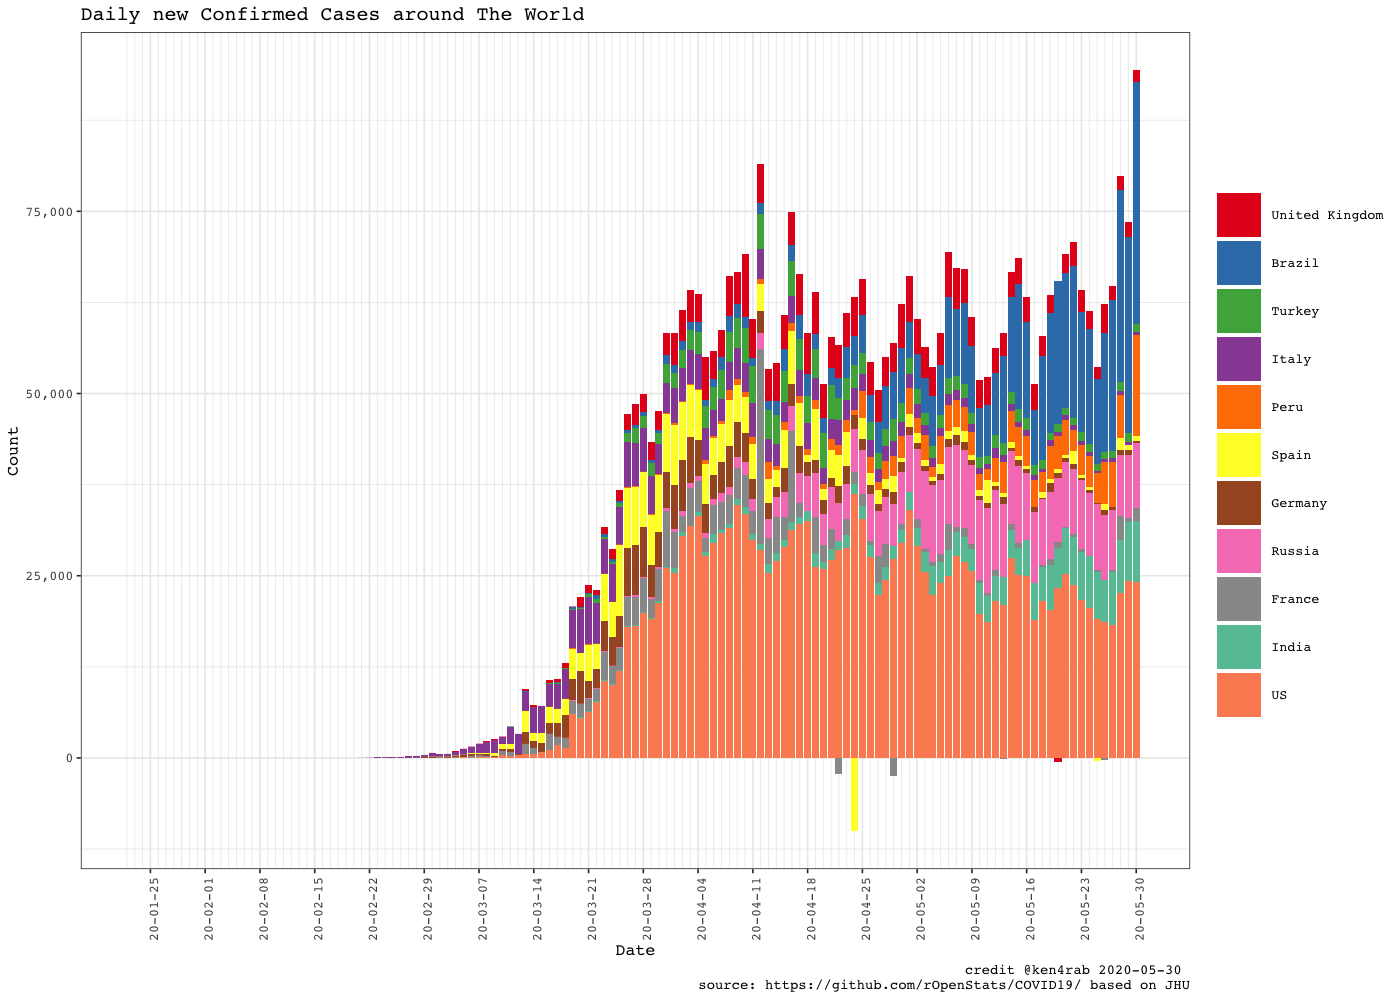
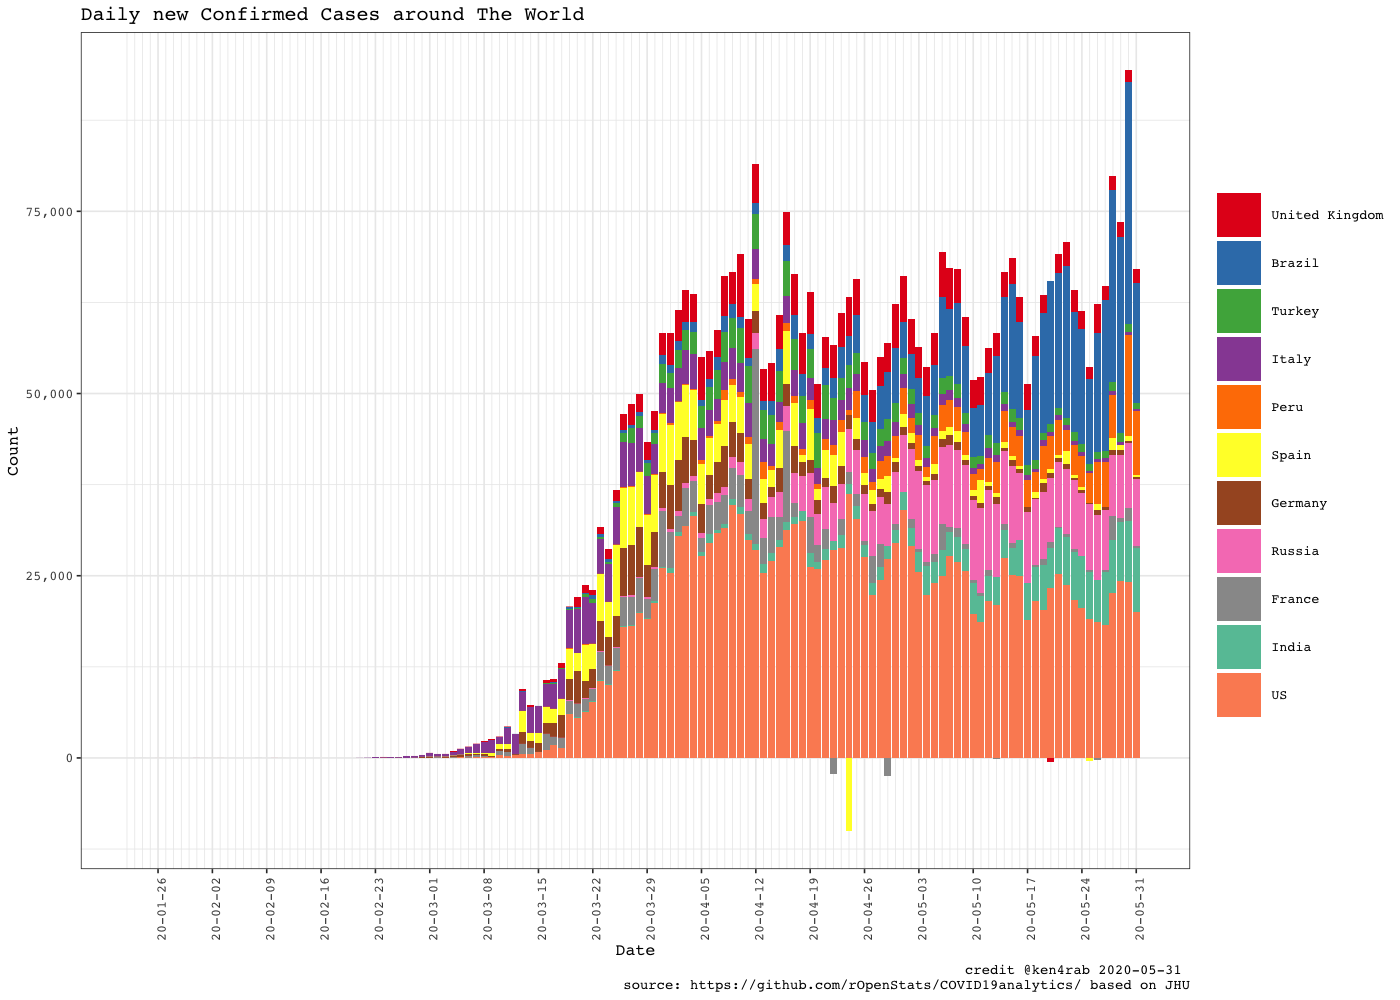
Updated up to 2020-05-31

diff --git a/README.md b/README.md
@@ -88,28 +88,31 @@ data.processor <- COVID19DataProcessor$new(provider = "JohnsHopkingsUniversity",
 
 #dummy <- data.processor$preprocess() is setupData + transform is the preprocess made by data provider
 dummy <- data.processor$setupData()
-#> INFO  [09:56:45.090]  {stage: processor-setup}
-#> INFO  [09:56:49.744]  {stage: data loaded}
-#> INFO  [09:56:49.823]  {stage: data-setup}
+#> INFO  [09:52:20.268]  {stage: processor-setup}
+#> INFO  [09:52:20.364] Checking required downloaded  {downloaded.max.date: 2020-05-30, daily.update.time: 21:00:00, current.datetime: 2020-06-01 0.., download.flag: TRUE}
+#> INFO  [09:52:21.236] Checking required downloaded  {downloaded.max.date: 2020-05-30, daily.update.time: 21:00:00, current.datetime: 2020-06-01 0.., download.flag: TRUE}
+#> INFO  [09:52:21.927] Checking required downloaded  {downloaded.max.date: 2020-05-30, daily.update.time: 21:00:00, current.datetime: 2020-06-01 0.., download.flag: TRUE}
+#> INFO  [09:52:22.672]  {stage: data loaded}
+#> INFO  [09:52:22.676]  {stage: data-setup}
 dummy <- data.processor$transform()
-#> INFO  [09:56:49.825] Executing transform 
-#> INFO  [09:56:49.826] Executing consolidate 
-#> INFO  [09:56:51.489]  {stage: consolidated}
-#> INFO  [09:56:51.491] Executing standarize 
-#> INFO  [09:56:51.971] gathering DataModel 
-#> INFO  [09:56:51.974]  {stage: datamodel-setup}
+#> INFO  [09:52:22.681] Executing transform 
+#> INFO  [09:52:22.683] Executing consolidate 
+#> INFO  [09:52:28.449]  {stage: consolidated}
+#> INFO  [09:52:28.451] Executing standarize 
+#> INFO  [09:52:30.842] gathering DataModel 
+#> INFO  [09:52:30.844]  {stage: datamodel-setup}
 # Curate is the process made by missing values method
 dummy <- data.processor$curate()
-#> INFO  [09:56:51.979]  {stage: loading-aggregated-data-model}
+#> INFO  [09:52:30.852]  {stage: loading-aggregated-data-model}
 #> Warning in countrycode(x, origin = "country.name", destination = "continent"): Some values were not matched unambiguously: MS Zaandam
-#> INFO  [09:56:53.810]  {stage: calculating-rates}
-#> INFO  [09:56:53.991]  {stage: making-data-comparison}
-#> INFO  [09:56:59.062]  {stage: applying-missing-values-method}
-#> INFO  [09:56:59.063]  {stage: Starting first imputation}
-#> INFO  [09:56:59.071]  {stage: calculating-rates}
-#> INFO  [09:56:59.282]  {stage: making-data-comparison-2}
-#> INFO  [09:57:04.466]  {stage: calculating-top-countries}
-#> INFO  [09:57:04.491]  {stage: processed}
+#> INFO  [09:52:37.806]  {stage: calculating-rates}
+#> INFO  [09:52:38.516]  {stage: making-data-comparison}
+#> INFO  [09:53:00.099]  {stage: applying-missing-values-method}
+#> INFO  [09:53:00.102]  {stage: Starting first imputation}
+#> INFO  [09:53:00.122]  {stage: calculating-rates}
+#> INFO  [09:53:01.362]  {stage: making-data-comparison-2}
+#> INFO  [09:53:32.825]  {stage: calculating-top-countries}
+#> INFO  [09:53:32.962]  {stage: processed}
 
 current.date <- max(data.processor$getData()$date)
 
@@ -134,18 +137,18 @@ latam.countries <- sort(c("Mexico",
   filter(confirmed >=10))[1:10,]
 #> # A tibble: 10 x 7
 #> # Groups:   country [10]
-#>    country  date       rate.inc.daily confirmed.inc confirmed deaths deaths.inc
-#>    <chr>    <date>              <dbl>         <int>     <int>  <int>      <int>
-#>  1 Brazil   2020-05-30          0.072         33274    498440  28834        956
-#>  2 US       2020-05-30          0.014         24146   1770165 103776        967
-#>  3 Peru     2020-05-30          0.098         13892    155671   4371        272
-#>  4 Russia   2020-05-30          0.023          8952    396575   4555        181
-#>  5 India    2020-05-30          0.048          8336    181827   5185        205
-#>  6 Chile    2020-05-30          0.047          4220     94858    997         53
-#>  7 Mexico   2020-05-30          0.034          2885     87512   9779        364
-#>  8 Pakistan 2020-05-30          0.038          2429     66457   1395         78
-#>  9 Qatar    2020-05-30          0.045          2355     55262     36          0
-#> 10 Iran     2020-05-30          0.016          2282    148950   7734         57
+#>    country   date       rate.inc.daily confirmed.inc confirmed deaths deaths.inc
+#>    <chr>     <date>              <dbl>         <int>     <int>  <int>      <int>
+#>  1 US        2020-05-31          0.011         20007   1790172 104381        605
+#>  2 Brazil    2020-05-31          0.033         16409    514849  29314        480
+#>  3 Russia    2020-05-31          0.023          9268    405843   4693        138
+#>  4 Peru      2020-05-31          0.057          8805    164476   4506        135
+#>  5 India     2020-05-31          0.048          8782    190609   5408        223
+#>  6 Chile     2020-05-31          0.051          4830     99688   1054         57
+#>  7 Mexico    2020-05-31          0.036          3152     90664   9930        151
+#>  8 Pakistan  2020-05-31          0.046          3039     69496   1483         88
+#>  9 Banglade… 2020-05-31          0.057          2545     47153    650         40
+#> 10 Iran      2020-05-31          0.017          2516    151466   7797         63
 ```
 
 ``` r
@@ -158,16 +161,16 @@ latam.countries <- sort(c("Mexico",
 #> # Groups:   country [10]
 #>    country   date       rate.inc.daily confirmed.inc confirmed deaths deaths.inc
 #>    <chr>     <date>              <dbl>         <int>     <int>  <int>      <int>
-#>  1 US        2020-05-30          0.014         24146   1770165 103776        967
-#>  2 Brazil    2020-05-30          0.072         33274    498440  28834        956
-#>  3 Mexico    2020-05-30          0.034          2885     87512   9779        364
-#>  4 Peru      2020-05-30          0.098         13892    155671   4371        272
-#>  5 United K… 2020-05-30          0.006          1612    274219  38458        215
-#>  6 India     2020-05-30          0.048          8336    181827   5185        205
-#>  7 Russia    2020-05-30          0.023          8952    396575   4555        181
-#>  8 Italy     2020-05-30          0.002           416    232664  33340        111
-#>  9 Pakistan  2020-05-30          0.038          2429     66457   1395         78
-#> 10 France    2020-05-30          0.01           1829    188752  28774         57
+#>  1 US        2020-05-31          0.011         20007   1790172 104381        605
+#>  2 Brazil    2020-05-31          0.033         16409    514849  29314        480
+#>  3 India     2020-05-31          0.048          8782    190609   5408        223
+#>  4 Mexico    2020-05-31          0.036          3152     90664   9930        151
+#>  5 Russia    2020-05-31          0.023          9268    405843   4693        138
+#>  6 Peru      2020-05-31          0.057          8805    164476   4506        135
+#>  7 United K… 2020-05-31          0.007          1937    276156  38571        113
+#>  8 Pakistan  2020-05-31          0.046          3039     69496   1483         88
+#>  9 Italy     2020-05-31          0.001           333    232997  33415         75
+#> 10 Iran      2020-05-31          0.017          2516    151466   7797         63
 ```
 
 ``` r
